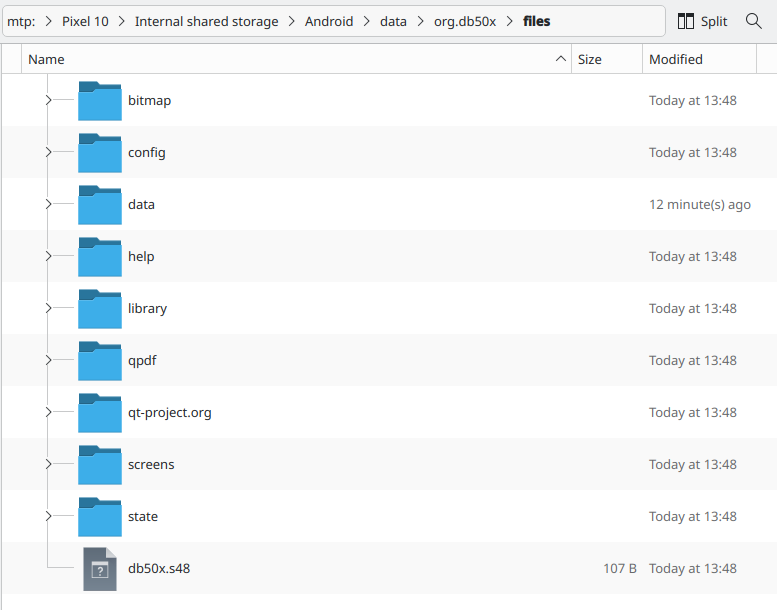
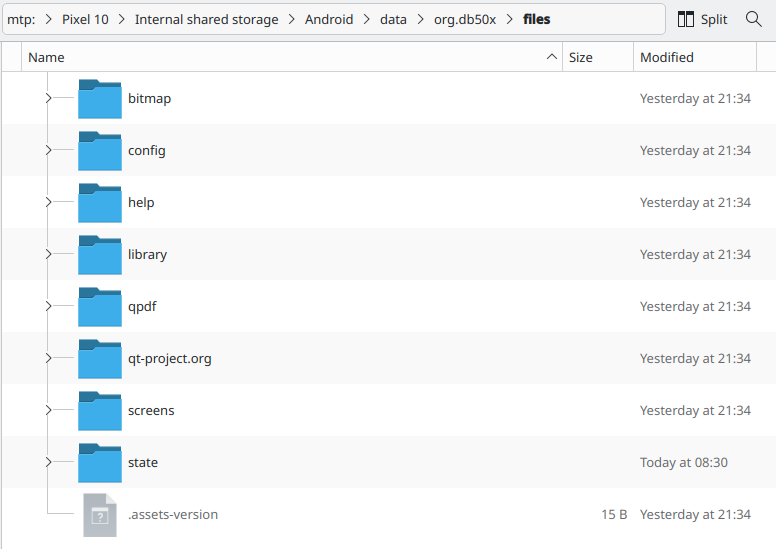
Doc: Add State and keymap file handling in Android
Add documentation about the handling of state or keymap files in Android
as fixed in a previous code commit.

diff --git a/ANDROID.md b/ANDROID.md
@@ -31,9 +31,9 @@ that does have permissions to access `.../Android/data/`.
 Even `Cx File Explorer` is restricted.
 It does show the contenct of  `.../Android/data/`.
 It does allow to navigate to and to enter `.../Android/data/org.db50x`.
-Then it can't go further as shown in the left screenshot below.
+Then it can't go further as shown in the first screenshot below.
 But it does provide a way out via `System File Manager`.
-That does give you access to  `.../Android/data/org.db50x/files/` as shown in the right screenshot below..
+That does give you access to  `.../Android/data/org.db50x/files/` as shown in the second screenshot below..
 
 <img src="images/ANDROID.md/Cx File Explorer.png" width="40%">
 <img src="images/ANDROID.md/System File Manager.png" width="40%">
@@ -56,6 +56,68 @@ From the root of the Android device, `Pixel 10` here,
 the path to the relevant files, as shown at the top, is followed.
 
 <img src="images/ANDROID.md/Dolphin.png" width="100%">
+
+
+## state or keymap files
+
+State files reside in `.../state/*.48S`, keymap files in `.../config/*.48k`.
+From the system menu you can Load, Save or Merge a state file or you can Load a keymap.
+Those operations require selecting or specifing a file through the `File selector` dialog.
+There is also some automatic under the hood handling of such files.
+
+The `File selector` has similar problems as the `Files` App (see above).
+It is not allowed to access `.../Android/data/org.db50x/files/`.
+So it can't give you the oppartunity to select files there.
+The `File selector` opens in an other location, often the `Download` location.
+
+
+### Save State
+
+The `Save State` operation from the system menu calls the `File selector`.
+It allows you to specify a name for the state file.
+The default is a_file_name with the extension 48S
+as shown in the screenshot below.
+
+<img src="images/ANDROID.md/Save_State.png" width="40%">
+
+You tap the SAVE button.
+Android then immediatly creates an empty file with that name in the current location.
+
+DB50X takes over.
+It takes the name of the specified file and saves the state,
+not in the file that Android created
+but in a file in the appropriate directory.
+A message about the used file is presented
+as shown in the screenshot below.
+
+<img src="images/ANDROID.md/Using_file.png" width="40%">
+
+
+### Load State, Merge State or Load keymap
+
+The `Load State` operation from the system menu calls the `File selector`.
+It allows you to select a file
+as shown in the screenshot below.
+
+<img src="images/ANDROID.md/Load_State.png" width="40%">
+
+Note that the a_file_name.48S shown in the above screenshot is empty.
+That doesn't matter, only its name is relevant (see below).
+
+You select the wanted file.
+
+DB50X takes over.
+It takes the name of the selected file and reads the state,
+not from the selected file
+but from a file with the same name in the appropriate directory.
+A message about the used file is presented.
+
+If you want to read a state or keymap file, you know exists,
+but for which there is no entry to select in `Download`,
+you can create one with the `Files` App.
+Try to `Merge State` Demo.48S that way.
+
+The `Merge State` and `Load keymap` operations work similar.
 
 
 # Install
